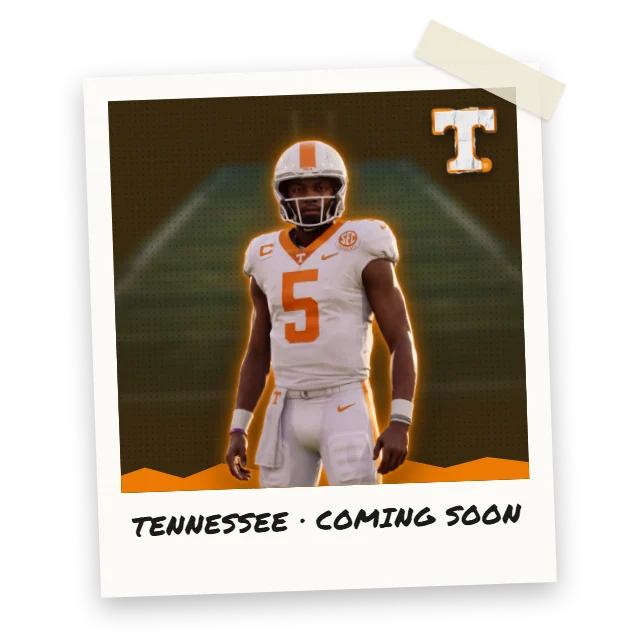
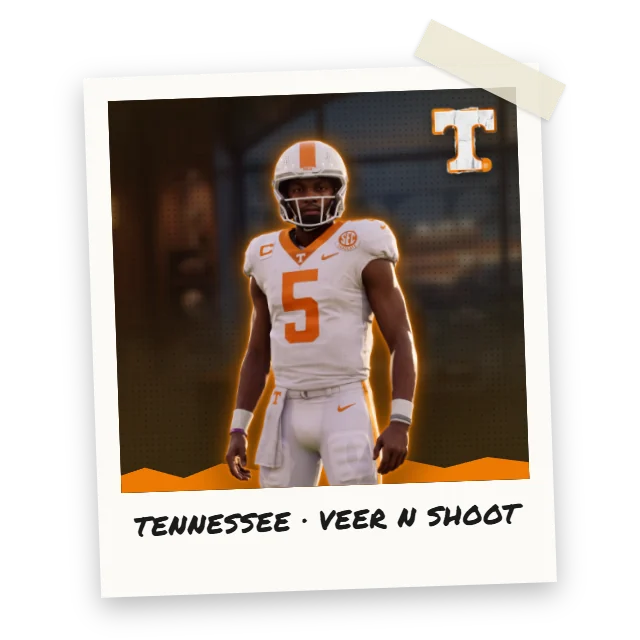
Tennessee Veer N Shoot: the second install of the college series
Josh Heupel's offense around the 2022 Hendon Hooker team, out of the
Auburn book: 20 calls written from the breakdowns with their videos,
four formations, the three page principles intro (find the numbers
advantage, use the whole field, create explosive pass plays), the
Tennessee office and stadium. The series pop-up shows Baylor and
Tennessee ready, Ole Miss still to come.

diff --git a/database/sk-cards.js b/database/sk-cards.js
@@ -186,6 +186,8 @@ const OPTION_SHAPES={
   Comeback_Fade:  (s,o)=>({stem:s||12, main:[[o*2,-3]],       alt:[[o*1,8]]}),
   Juke:           (s,o)=>({stem:s||7,  main:[[o*4,1]],        alt:[[-o*4,1]]}),
   Route:          (s,o)=>({stem:s||5,  main:[[o*5,0]],        alt:[[-o*5,0]]}),
+  /* the option route he hot routes a tight end or H-back to (his note 2026-10-05): three or four yards past the line, a hitch, and the break either way dotted */
+  Sit_In_Out:     (s,o)=>({stem:s||6,  main:[[-o*0.4,-1.3]],  alts:[[[o*5,0.4]],[[-o*5,0.4]]]}),
   /* the back's choice the way the game's card draws it (his note 2026-09-21): out past the tackle to five, a hook, with the out and the Texas off it */
   HB_Choice_In_Out:(s,o)=>({stem:0,    pre:[[o*3,s||5]],      main:[[-o*0.4,-1.4]],  alts:[[[-o*6,6]],[[o*6,0]]]}),   /* the Texas is a forty five in front of the quarterback */   /* sit facing the quarterback, the Texas up the field, or the out (his note 2026-09-21) */
   /* a back's option route the way it is coached (his note 2026-09-14): a hook to three or four yards, then he breaks either way */
